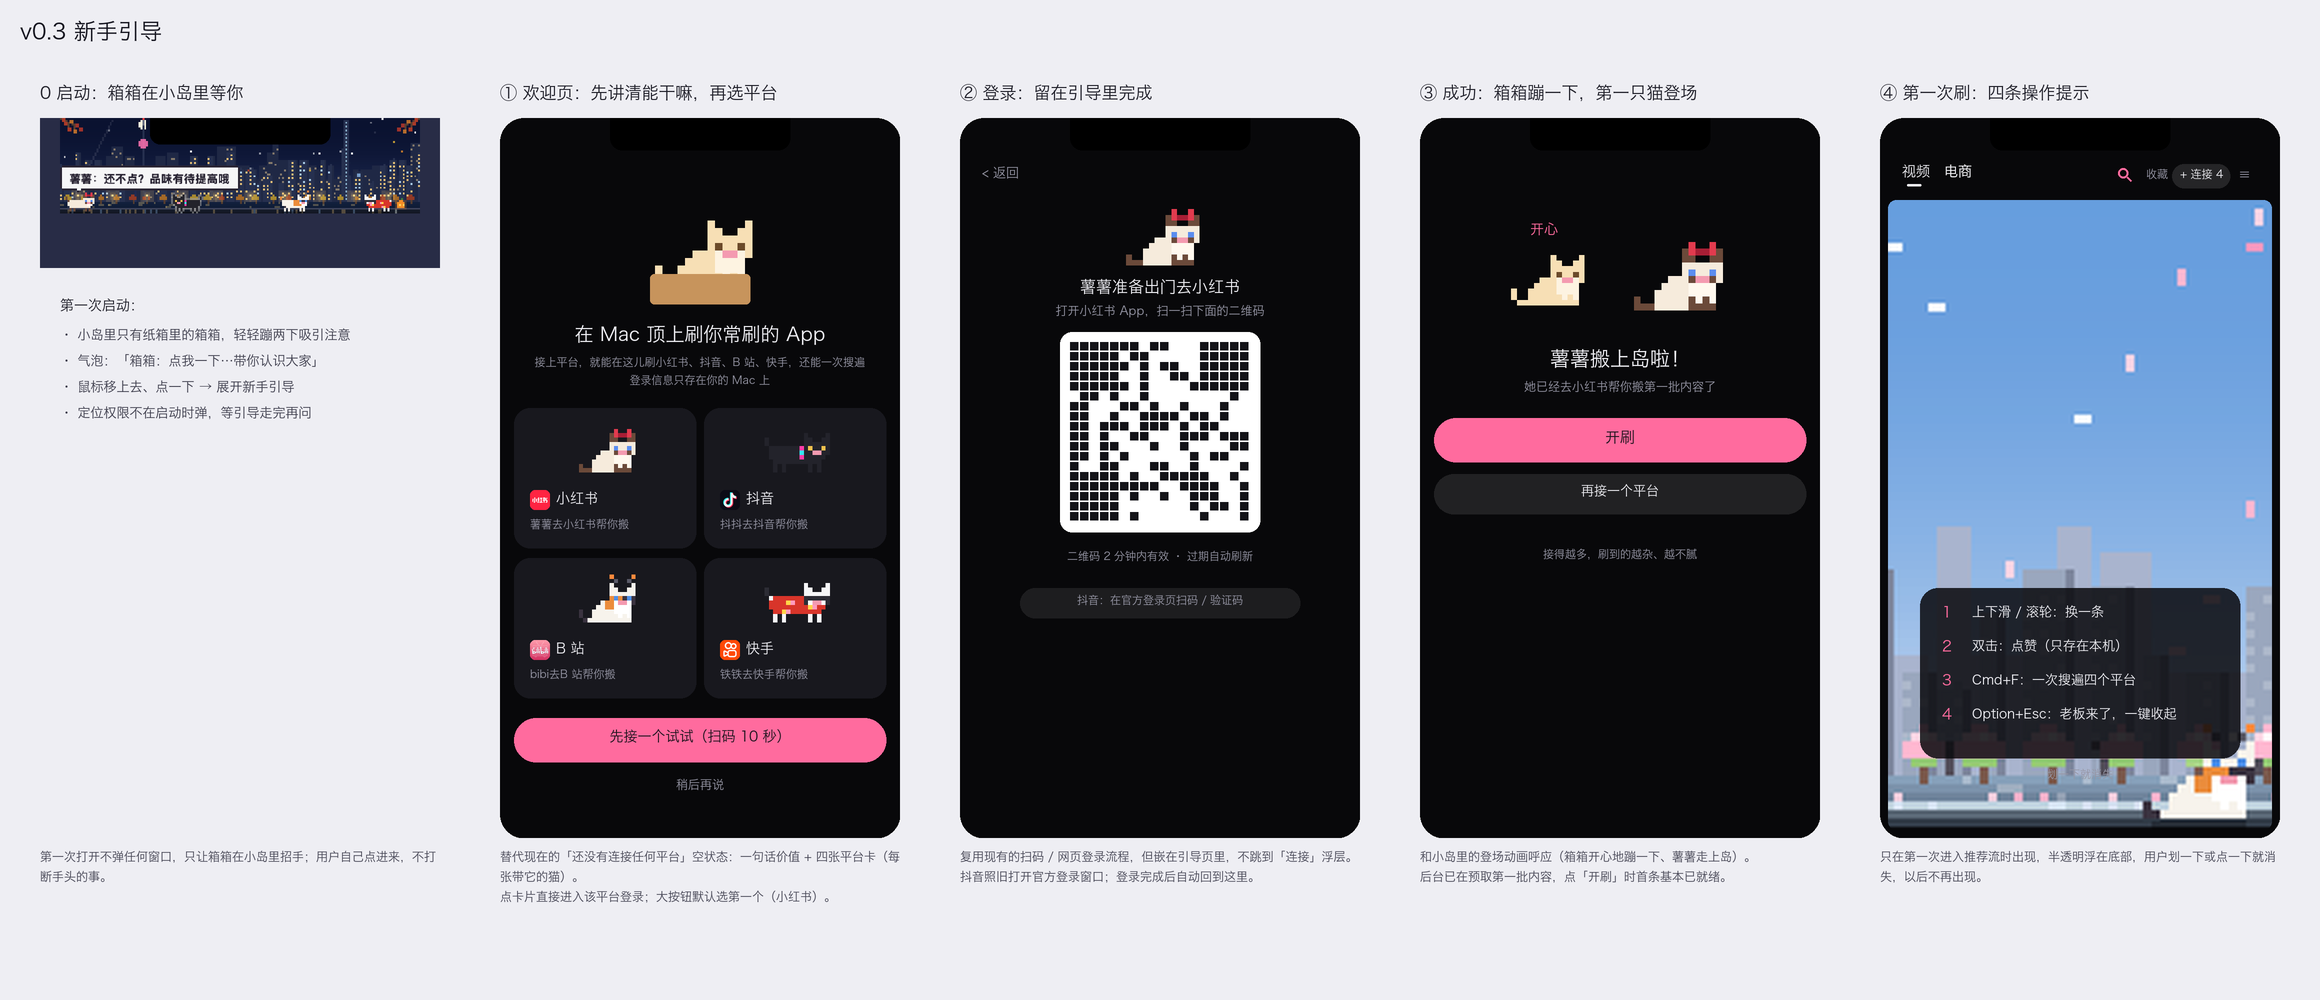
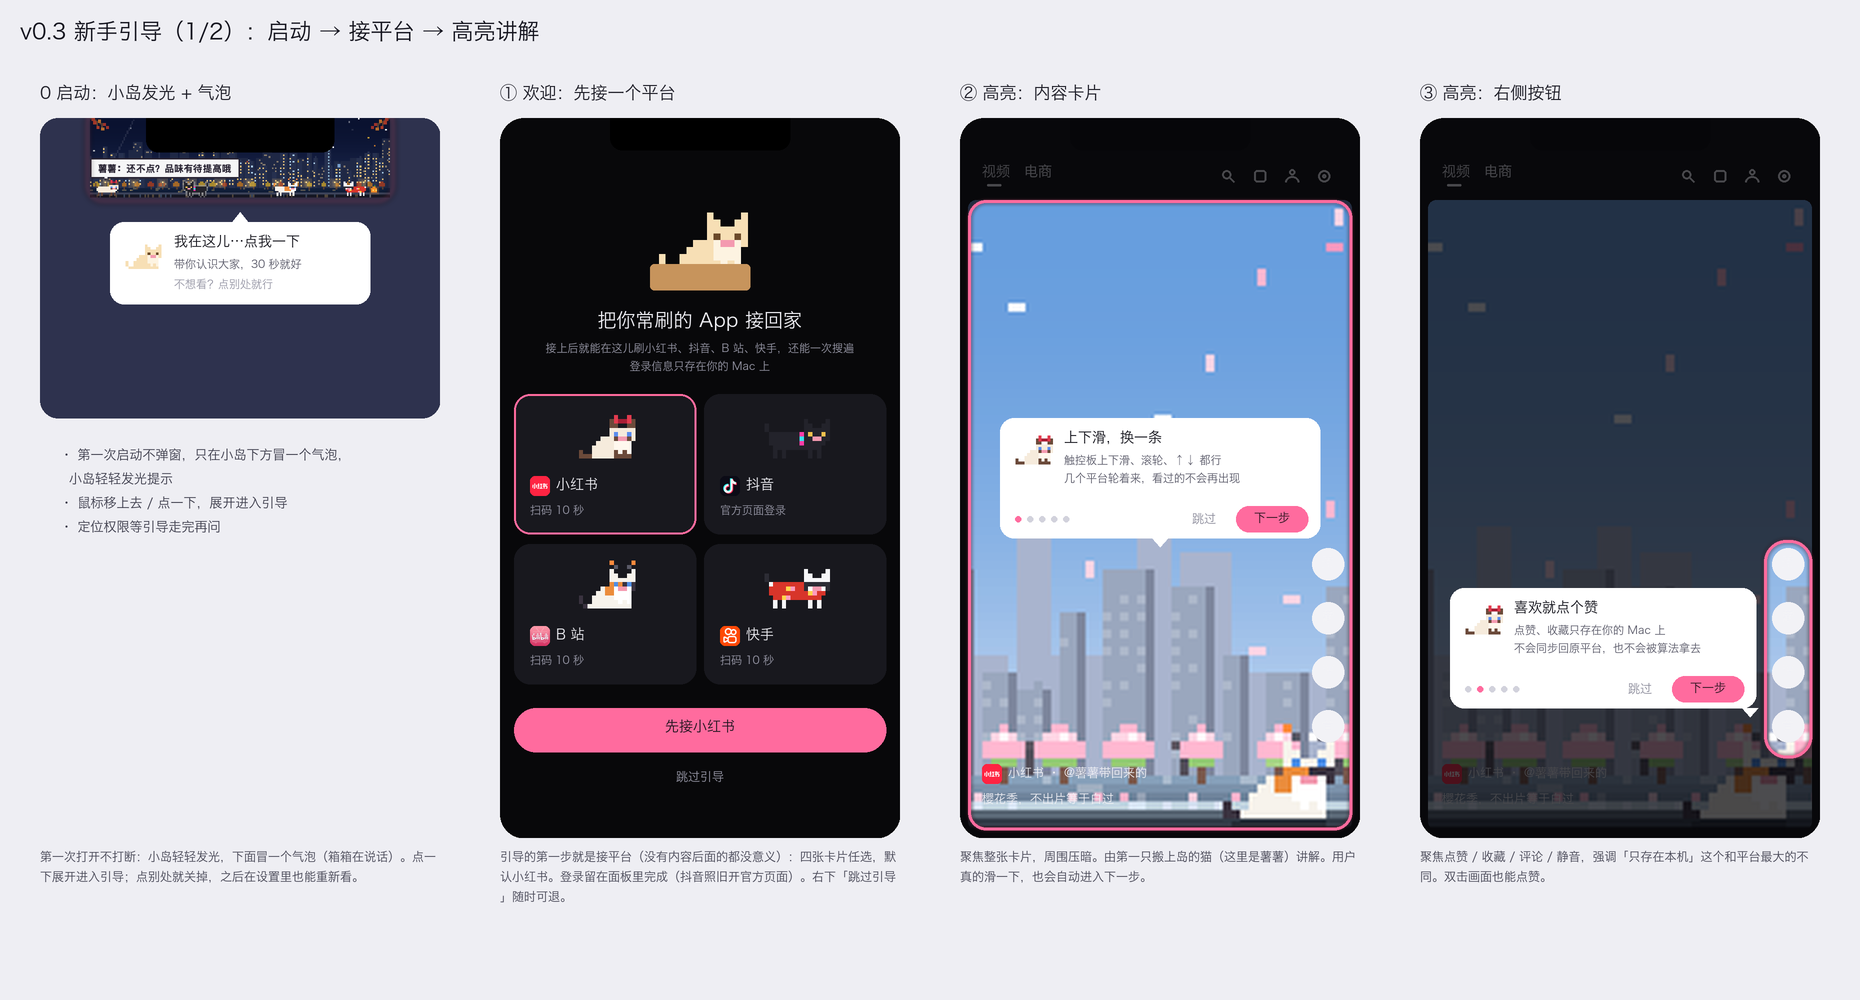
Design: onboarding with spotlight, step bubbles and skip
Generated with [Devin](https://devin.ai)

diff --git a/scripts/mockups_onboarding.py b/scripts/mockups_onboarding.py
@@ -1,0 +1,207 @@
+"""v0.3 新手引导线框稿（高亮聚焦 + 气泡说明 + 下一步 / 跳过），只用于设计评审。
+
+依赖同 scripts/mockups_v03.py（/tmp/catland-snaps、/tmp/cat_<花色>.png）。
+用法：~/miniconda3/envs/catlands/bin/python scripts/mockups_onboarding.py → docs/design/v0.3-onboarding.png
+"""
+from __future__ import annotations
+
+import sys
+from pathlib import Path
+
+from PIL import Image, ImageDraw, ImageFilter
+
+ROOT = Path(__file__).resolve().parents[1]
+sys.path.insert(0, str(ROOT / "scripts"))
+from mockups_v03 import (CARD, H, OUT, PINK, PLAT, S, SNAPS, SUB, TXT, W, cat, cover, f, icon, label, panel, rr,  # noqa: E402
+                         sheet, text)
+
+DARK = (20, 20, 28)
+
+
+def header(d, img):
+    """新版顶栏：视频 / 电商 + 右侧四个图标（搜索、收藏、连接、设置）。"""
+    text(d, (22, 46), "视频", 14)
+    rr(d, (27, 66, 41, 68), 1, fill=TXT)
+    text(d, (64, 46), "电商", 14, (255, 255, 255, 80))
+    for i, g in enumerate(["search", "heart", "person", "gear"]):
+        x = 256 + i * 32
+        cx, cy = x + 12, 58
+        if g == "search":
+            d.ellipse([(cx - 6) * S, (cy - 6) * S, (cx + 3) * S, (cy + 3) * S], outline=TXT, width=2 * S)
+            d.line([(cx + 2) * S, (cy + 2) * S, (cx + 6) * S, (cy + 6) * S], fill=TXT, width=2 * S)
+        elif g == "heart":
+            rr(d, (cx - 6, cy - 6, cx + 6, cy + 6), 3, outline=TXT, width=2 * S)
+        elif g == "person":
+            d.ellipse([(cx - 3) * S, (cy - 7) * S, (cx + 3) * S, (cy - 1) * S], outline=TXT, width=2 * S)
+            d.arc([(cx - 7) * S, (cy) * S, (cx + 7) * S, (cy + 12) * S], 180, 360, fill=TXT, width=2 * S)
+        else:
+            d.ellipse([(cx - 6) * S, (cy - 6) * S, (cx + 6) * S, (cy + 6) * S], outline=TXT, width=2 * S)
+            d.ellipse([(cx - 2) * S, (cy - 2) * S, (cx + 2) * S, (cy + 2) * S], outline=TXT, width=2 * S)
+
+
+def feed(img, d, name="event-sakura"):
+    header(d, img)
+    img.alpha_composite(cover(name, 384, 630), (8 * S, 82 * S))
+    img.alpha_composite(icon("xhs", 20), (22 * S, 646 * S))
+    text(d, (48, 648), "小红书 · @薯薯带回来的", 12)
+    text(d, (22, 674), "樱花季，不出片等于白过", 12)
+    for k, t in enumerate(["赞", "藏", "评", "音"]):
+        y = 430 + k * 54
+        d.ellipse([352 * S, y * S, 384 * S, (y + 32) * S], fill=(255, 255, 255, 60))
+        text(d, (362, y + 8), t, 12)
+
+
+def spotlight(img, box, r=14):
+    """压暗整个面板，只留出 box 区域（圆角），外圈一道粉色光边。"""
+    x0, y0, x1, y1 = box
+    shade = Image.new("RGBA", img.size, (8, 8, 12, 185))
+    m = Image.new("L", img.size, 255)
+    ImageDraw.Draw(m).rounded_rectangle([x0 * S, y0 * S, x1 * S, y1 * S], radius=r * S, fill=0)
+    shade.putalpha(Image.eval(m, lambda v: int(v * 185 / 255)))
+    # 只在面板范围内压暗（面板外是透明的）
+    panel_alpha = img.getchannel("A")
+    a = Image.composite(shade.getchannel("A"), Image.new("L", img.size, 0), panel_alpha.point(lambda v: 255 if v > 0 else 0))
+    shade.putalpha(a)
+    img.alpha_composite(shade)
+    glow = Image.new("RGBA", img.size, (0, 0, 0, 0))
+    ImageDraw.Draw(glow).rounded_rectangle([x0 * S, y0 * S, x1 * S, y1 * S], radius=r * S, outline=PINK + (255,), width=3 * S)
+    img.alpha_composite(glow.filter(ImageFilter.GaussianBlur(2 * S)))
+    img.alpha_composite(glow)
+
+
+def bubble(img, box, arrow_x, arrow_up, cat_skin, title, body, step, total, last=False):
+    """白色说明气泡：左边一只猫在讲，标题 + 说明 + 进度点 + 跳过 / 下一步。"""
+    d = ImageDraw.Draw(img, "RGBA")
+    x0, y0, x1, y1 = box
+    rr(d, box, 14, fill=(255, 255, 255))
+    if arrow_up:
+        d.polygon([((arrow_x - 8) * S, y0 * S), (arrow_x * S, (y0 - 9) * S), ((arrow_x + 8) * S, y0 * S)], fill=(255, 255, 255))
+    else:
+        d.polygon([((arrow_x - 8) * S, y1 * S), (arrow_x * S, (y1 + 9) * S), ((arrow_x + 8) * S, y1 * S)], fill=(255, 255, 255))
+    img.alpha_composite(cat(cat_skin, 46), ((x0 + 10) * S, (y0 + 12) * S))
+    text(d, (x0 + 64, y0 + 12), title, 14, DARK)
+    yy = y0 + 36
+    for line in body.split("\n"):
+        text(d, (x0 + 64, yy), line, 11, (90, 90, 105))
+        yy += 18
+    by = y1 - 32
+    for k in range(total):
+        cx = x0 + 18 + k * 12
+        d.ellipse([(cx - 3) * S, (by + 10) * S, (cx + 3) * S, (by + 16) * S], fill=PINK if k == step else (210, 210, 220))
+    text(d, (x1 - 128, by + 6), "跳过", 12, (140, 140, 155))
+    rr(d, (x1 - 84, by, x1 - 12, by + 26), 13, fill=PINK)
+    text(d, (x1 - 48, by + 5), "开刷" if last else "下一步", 12, (40, 20, 30), anchor="ma")
+
+
+TOTAL = 5
+
+
+def s0_island():
+    img = Image.new("RGBA", (W, H), (0, 0, 0, 0))
+    d = ImageDraw.Draw(img, "RGBA")
+    # 屏幕顶部 + 小岛（箱箱）
+    rr(d, (0, 0, 400, 300), 18, fill=(46, 50, 78))
+    snap = Image.open(SNAPS / "island-hover.png").convert("RGBA")
+    snap = snap.resize((300 * S, int(snap.height * 300 * S / snap.width)), Image.NEAREST)
+    img.alpha_composite(snap, (50 * S, 0))
+    rr(d, (106, -20, 294, 34), 12, fill=(0, 0, 0))
+    glow = Image.new("RGBA", img.size, (0, 0, 0, 0))
+    ImageDraw.Draw(glow).rounded_rectangle([46 * S, -10 * S, 354 * S, 84 * S], radius=16 * S, outline=PINK + (255,), width=3 * S)
+    img.alpha_composite(glow.filter(ImageFilter.GaussianBlur(3 * S)))
+    rr(d, (70, 104, 330, 186), 14, fill=(255, 255, 255))
+    d.polygon([(192 * S, 104 * S), (200 * S, 94 * S), (208 * S, 104 * S)], fill=(255, 255, 255))
+    img.alpha_composite(cat("kitten", 44), (80 * S, 118 * S))
+    text(d, (134, 116), "我在这儿…点我一下", 14, DARK)
+    text(d, (134, 140), "带你认识大家，30 秒就好", 11, (90, 90, 105))
+    text(d, (134, 160), "不想看？点别处就行", 11, (150, 150, 165))
+    d2 = ImageDraw.Draw(img, "RGBA")
+    for i, l in enumerate(["· 第一次启动不弹窗，只在小岛下方冒一个气泡，", "  小岛轻轻发光提示", "· 鼠标移上去 / 点一下，展开进入引导", "· 定位权限等引导走完再问"]):
+        text(d2, (20, 330 + i * 24), l, 13, (60, 60, 75))
+    return label(img, "0 启动：小岛发光 + 气泡", "第一次打开不打断：小岛轻轻发光，下面冒一个气泡（箱箱在说话）。点一下展开进入引导；点别处就关掉，之后在设置里也能重新看。")
+
+
+def s1_welcome():
+    img, d = panel()
+    img.alpha_composite(cat("kitten", 110), (145 * S, 74 * S))
+    rr(d, (150, 146, 250, 172), 4, fill=(199, 148, 92))
+    text(d, (200, 192), "把你常刷的 App 接回家", 19, anchor="ma")
+    text(d, (200, 224), "接上后就能在这儿刷小红书、抖音、B 站、快手，还能一次搜遍", 11, SUB, anchor="ma")
+    text(d, (200, 242), "登录信息只存在你的 Mac 上", 11, SUB, anchor="ma")
+    for i, (pid, name, skin, cname) in enumerate(PLAT):
+        x = 14 + (i % 2) * 190
+        y = 276 + (i // 2) * 150
+        rr(d, (x, y, x + 182, y + 140), 16, fill=CARD, outline=PINK if i == 0 else None, width=2 * S)
+        img.alpha_composite(cat(skin, 70), ((x + 56) * S, (y + 12) * S))
+        img.alpha_composite(icon(pid, 20), ((x + 16) * S, (y + 82) * S))
+        text(d, (x + 42, y + 83), name, 14)
+        text(d, (x + 16, y + 110), "扫码 10 秒" if pid != "douyin" else "官方页面登录", 11, SUB)
+    rr(d, (14, 590, 386, 634), 22, fill=PINK)
+    text(d, (200, 601), "先接小红书", 14, (30, 20, 30), anchor="ma")
+    text(d, (200, 652), "跳过引导", 12, SUB, anchor="ma")
+    return label(img, "① 欢迎：先接一个平台", "引导的第一步就是接平台（没有内容后面的都没意义）：四张卡片任选，默认小红书。登录留在面板里完成（抖音照旧开官方页面）。右下「跳过引导」随时可退。")
+
+
+def s2_card():
+    img, d = panel()
+    feed(img, d)
+    spotlight(img, (8, 82, 392, 712), 18)
+    bubble(img, (40, 300, 360, 420), 200, False, "ragdoll", "上下滑，换一条", "触控板上下滑、滚轮、↑↓ 都行\n几个平台轮着来，看过的不会再出现", 0, TOTAL)
+    return label(img, "② 高亮：内容卡片", "聚焦整张卡片，周围压暗。由第一只搬上岛的猫（这里是薯薯）讲解。用户真的滑一下，也会自动进入下一步。")
+
+
+def s3_actions():
+    img, d = panel()
+    feed(img, d)
+    spotlight(img, (344, 422, 392, 640), 22)
+    bubble(img, (30, 470, 336, 590), 330, False, "ragdoll", "喜欢就点个赞", "点赞、收藏只存在你的 Mac 上\n不会同步回原平台，也不会被算法拿去", 1, TOTAL)
+    return label(img, "③ 高亮：右侧按钮", "聚焦点赞 / 收藏 / 评论 / 静音，强调「只存在本机」这个和平台最大的不同。双击画面也能点赞。")
+
+
+def s4_search():
+    img, d = panel()
+    feed(img, d)
+    spotlight(img, (252, 44, 284, 72), 16)
+    bubble(img, (60, 90, 340, 200), 268, True, "tuxedoBlack", "一次搜遍四个平台", "点放大镜或按 Cmd+F\n猫们会分头去各个平台帮你找", 2, TOTAL)
+    return label(img, "④ 高亮：搜索", "聚焦顶栏放大镜（换成抖抖讲，四只猫轮流出场）。")
+
+
+def s5_saved_connect():
+    img, d = panel()
+    feed(img, d)
+    spotlight(img, (284, 44, 348, 72), 14)
+    bubble(img, (50, 90, 350, 210), 316, True, "calicoTV", "收藏和更多平台在这里", "心形：你的点赞和收藏，点开直接在这里看\n人像：再接几个平台，猫就多几只", 3, TOTAL)
+    return label(img, "⑤ 高亮：收藏 + 连接", "一次聚焦两个图标（相邻、都是「管理」类），减少步数。")
+
+
+def s6_boss():
+    img, d = panel()
+    feed(img, d)
+    spotlight(img, (0, 0, 0, 0), 1)
+    bubble(img, (40, 280, 360, 410), 200, False, "cowJacket", "老板来了？Option+Esc", "一键收起小岛、暂停视频\n点小岛外面任何地方也能收起，随时回来接着刷", 4, TOTAL, last=True)
+    return label(img, "⑥ 最后：老板键", "不高亮具体元素，只压暗；铁铁收尾。按钮变成「开刷」，点了引导结束、开始刷。")
+
+
+def s7_settings():
+    img, d = panel()
+    text(d, (20, 46), "设置", 16)
+    for i, (t, on) in enumerate([("默认静音", True), ("窗外天气", True), ("刘海下方的猫步道", True)]):
+        y = 84 + i * 44
+        rr(d, (14, y, 386, y + 36), 10, fill=CARD)
+        text(d, (28, y + 9), t, 13)
+        rr(d, (338, y + 9, 372, y + 27), 9, fill=PINK if on else (80, 80, 90))
+    rr(d, (14, 230, 386, 270), 10, fill=CARD, outline=PINK, width=2 * S)
+    text(d, (28, 241), "重新看一遍新手引导", 13)
+    text(d, (360, 241), ">", 13, SUB)
+    return label(img, "⑦ 设置里可以重看", "跳过之后想再看，设置里有「重新看一遍新手引导」。")
+
+
+def main() -> None:
+    OUT.mkdir(parents=True, exist_ok=True)
+    frames = [s0_island(), s1_welcome(), s2_card(), s3_actions(), s4_search(), s5_saved_connect(), s6_boss(), s7_settings()]
+    sheet(frames[:4], OUT / "v0.3-onboarding.png", "v0.3 新手引导（1/2）：启动 → 接平台 → 高亮讲解")
+    sheet(frames[4:], OUT / "v0.3-onboarding-2.png", "v0.3 新手引导（2/2）：高亮讲解 → 结束 → 设置里重看")
+    print("ok")
+
+
+if __name__ == "__main__":
+    main()
